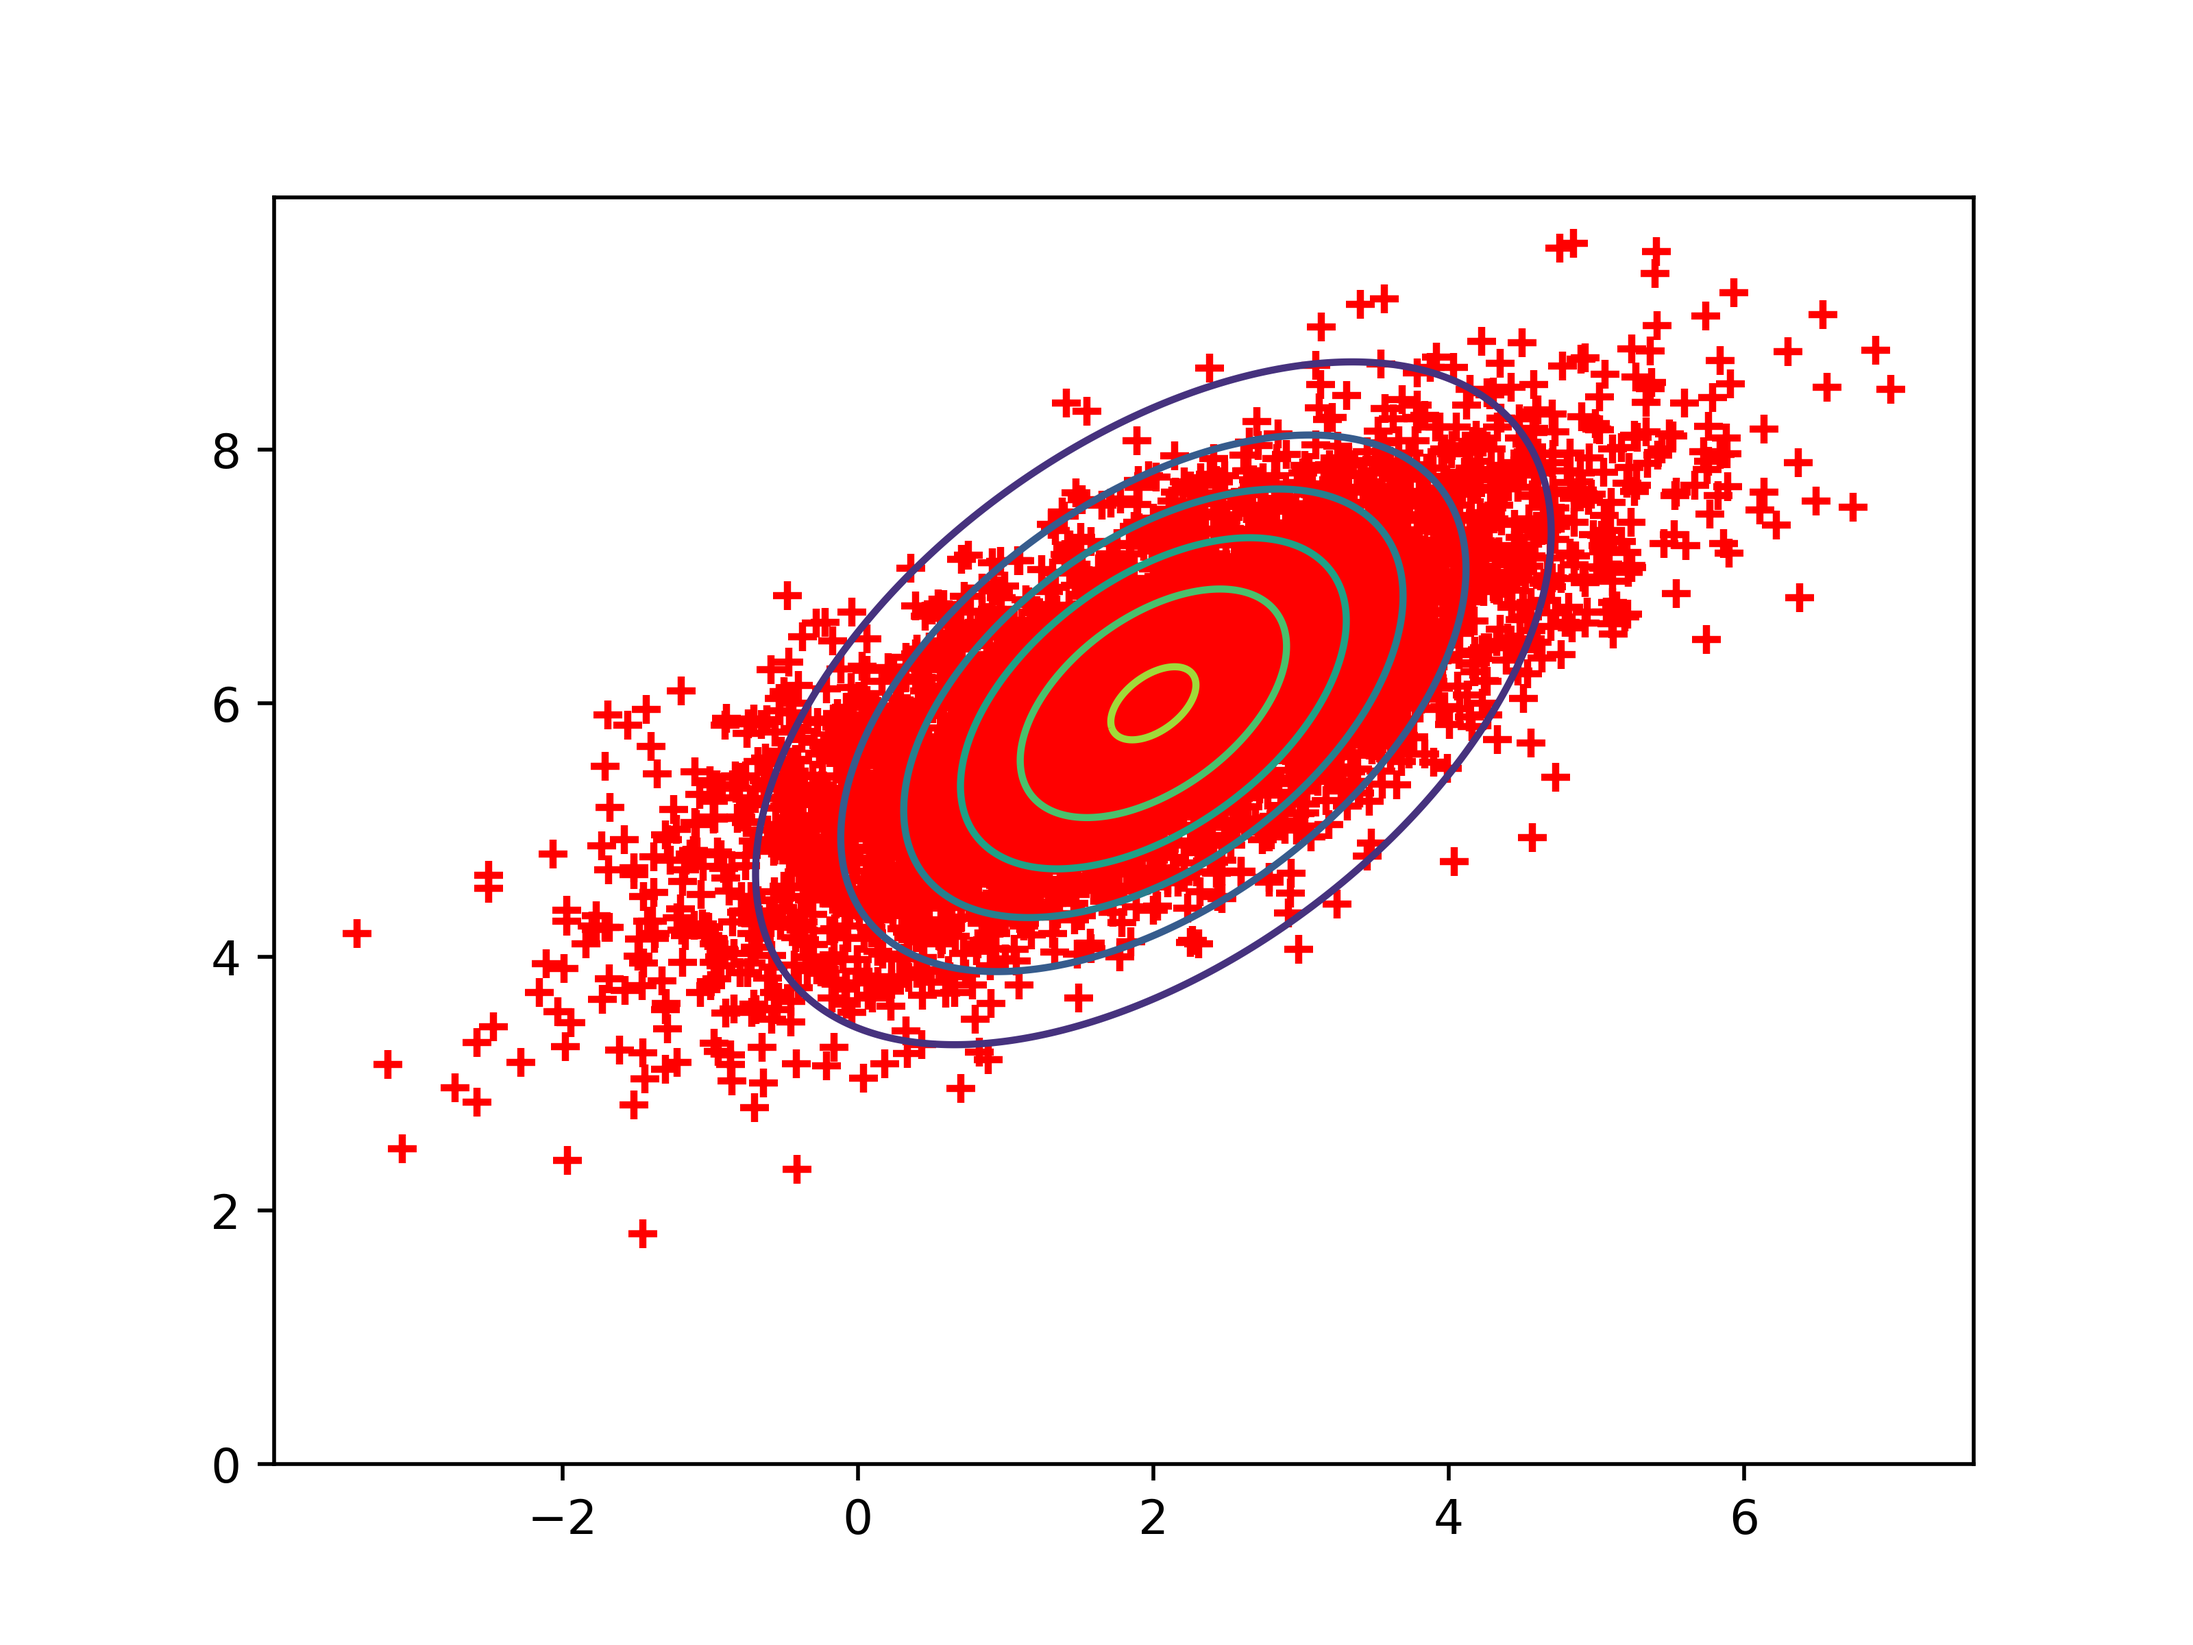
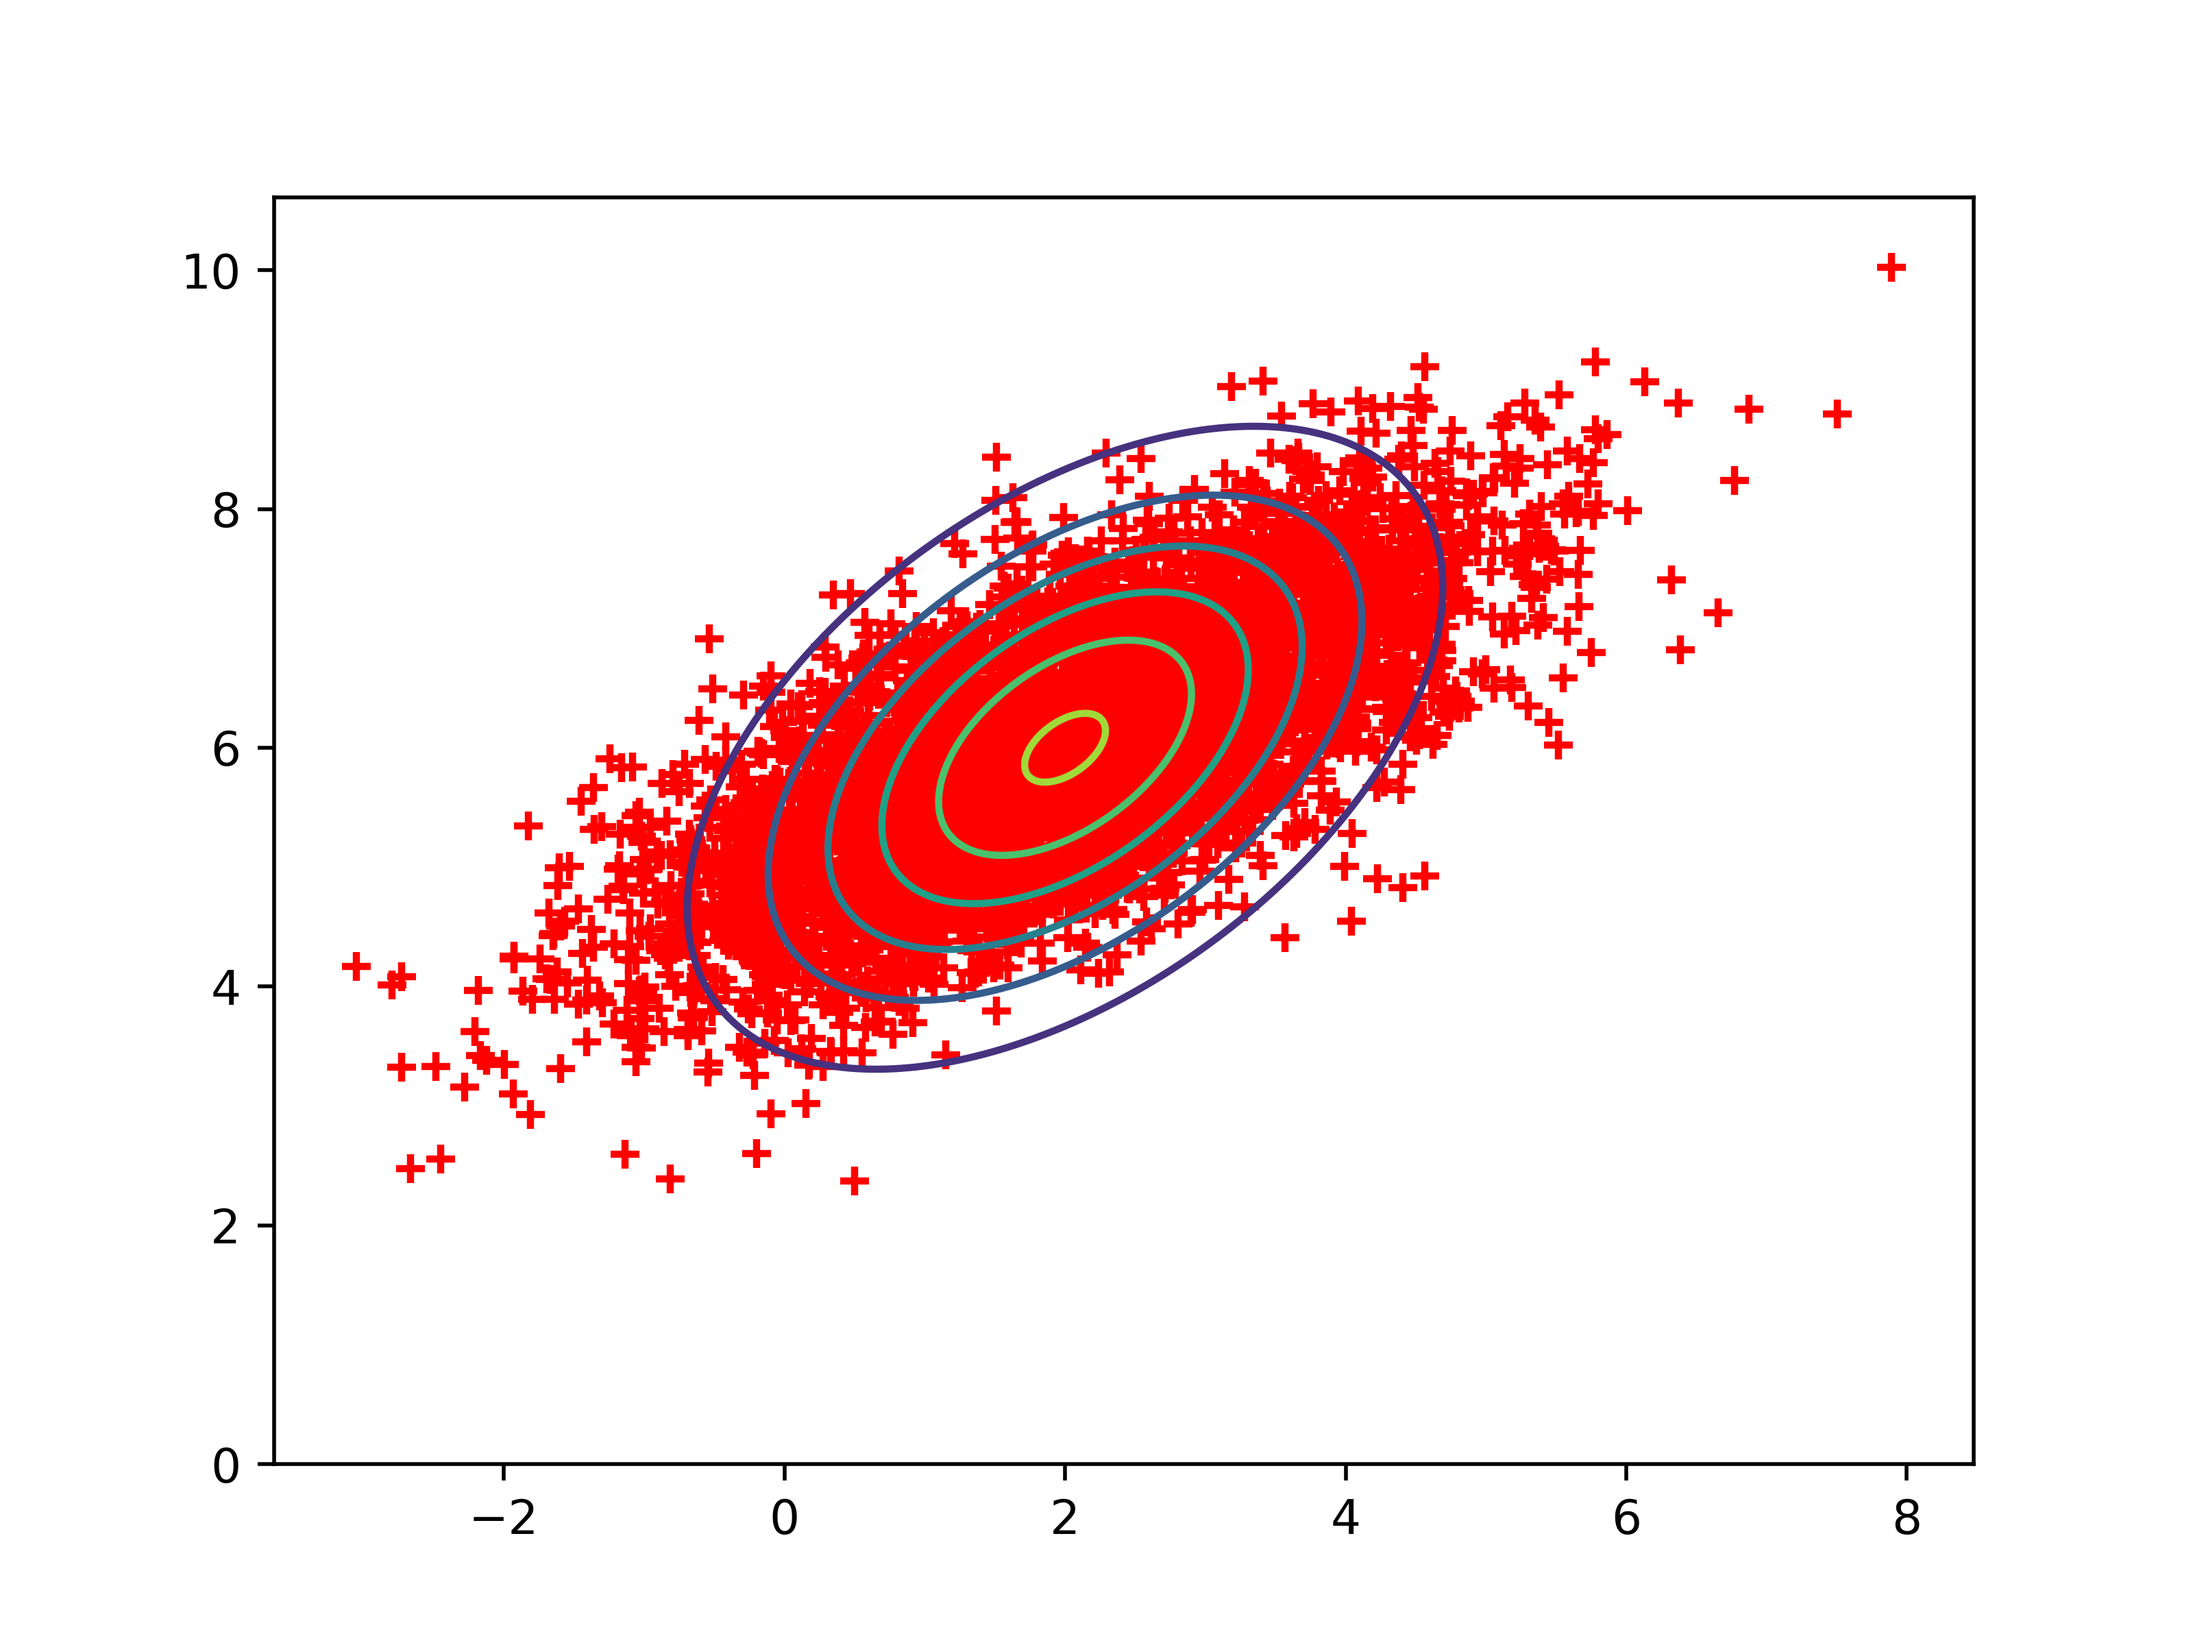
EX3

diff --git a/HW1/EX3.py b/HW1/EX3.py
@@ -3,13 +3,29 @@ import matplotlib.pyplot as plt
 import scipy
 from scipy.stats import multivariate_normal
 
-x, y = np.mgrid[-1:5:.01, 0:10:.01]
-pos = np.empty(x.shape + (2,))
-pos[:, :, 0] = x
-pos[:, :, 1] = y
-z1 = multivariate_normal([2., 6.], [[2., 1.], [1., 2.]])
-plt.contour(x, y, z1.pdf(pos))
-z2 = np.random.multivariate_normal([2, 6], [[2, 1], [1, 1]], 5000)
-plt.scatter(z2[:, 0], z2[:, 1], marker='+', c='r')
-plt.savefig("6.png", transparent=True, dpi=500, pad_inches=0)
+# x, y = np.mgrid[-1:5:.01, 0:10:.01]
+# pos = np.empty(x.shape + (2,))
+# pos[:, :, 0] = x
+# pos[:, :, 1] = y
+# z1 = multivariate_normal([2., 6.], [[2., 1.], [1., 2.]])
+# plt.contour(x, y, z1.pdf(pos))
+# z2 = np.random.multivariate_normal([2, 6], [[2, 1], [1, 1]], 5000)
+# plt.scatter(z2[:, 0], z2[:, 1], marker='+', c='r')
+# plt.savefig("6.png", transparent=True, dpi=500, pad_inches=0)
+# plt.show()
+
+x, y = np.random.multivariate_normal([0, 0], [[2, 1], [1, 2]], 5000).T
+plt.scatter(x, y, marker='.', c='g', alpha=0.5)
+eig_val, eig_vector = np.linalg.eig([[2, 1], [1, 2]])
+lam = [[np.sqrt(3), 0], [0, 1]]
+mat = np.dot(np.dot(eig_vector, lam), eig_vector.T)
+inter = np.column_stack((x, y))
+x_t, y_t = x, y
+for i in range(0, 5000):
+    trans = np.dot(mat, inter[i]) + [2, 6]
+    x_t[i] = trans[0]
+    y_t[i] = trans[1]
+
+plt.scatter(x_t, y_t, marker='+', c='r', alpha=0.5)
+plt.savefig("7.png", transparent=True, dpi=500, pad_inches=0)
 plt.show()

diff --git a/HW1/EX2.py b/HW1/EX2.py
@@ -34,6 +34,7 @@ x.sort()
 d = x.max() - x.min()
 j_h = 0
 label = 0
+j_ha = np.zeros(200)
 for m in range(1, 201):
     hist, bins = np.histogram(x, m)
     h = d / m
@@ -46,9 +47,12 @@ for m in range(1, 201):
     elif temp < j_h:
         label = m
         j_h = temp
+    j_ha[m - 1] = j_h
 
 print(label)
-p = plt.hist(x, label, density=True)
-plt.plot(p[1], norm.pdf(p[1]), "r")
-plt.savefig("5.png", transparent=True, dpi=500, pad_inches=0)
+step = np.linspace(1, 200, 200)
+plt.plot(step, j_ha)
+# p = plt.hist(x, label, density=True)
+# plt.plot(p[1], norm.pdf(p[1]), "r")
+plt.savefig("jha.png", transparent=True, dpi=500, pad_inches=0)
 plt.show()
